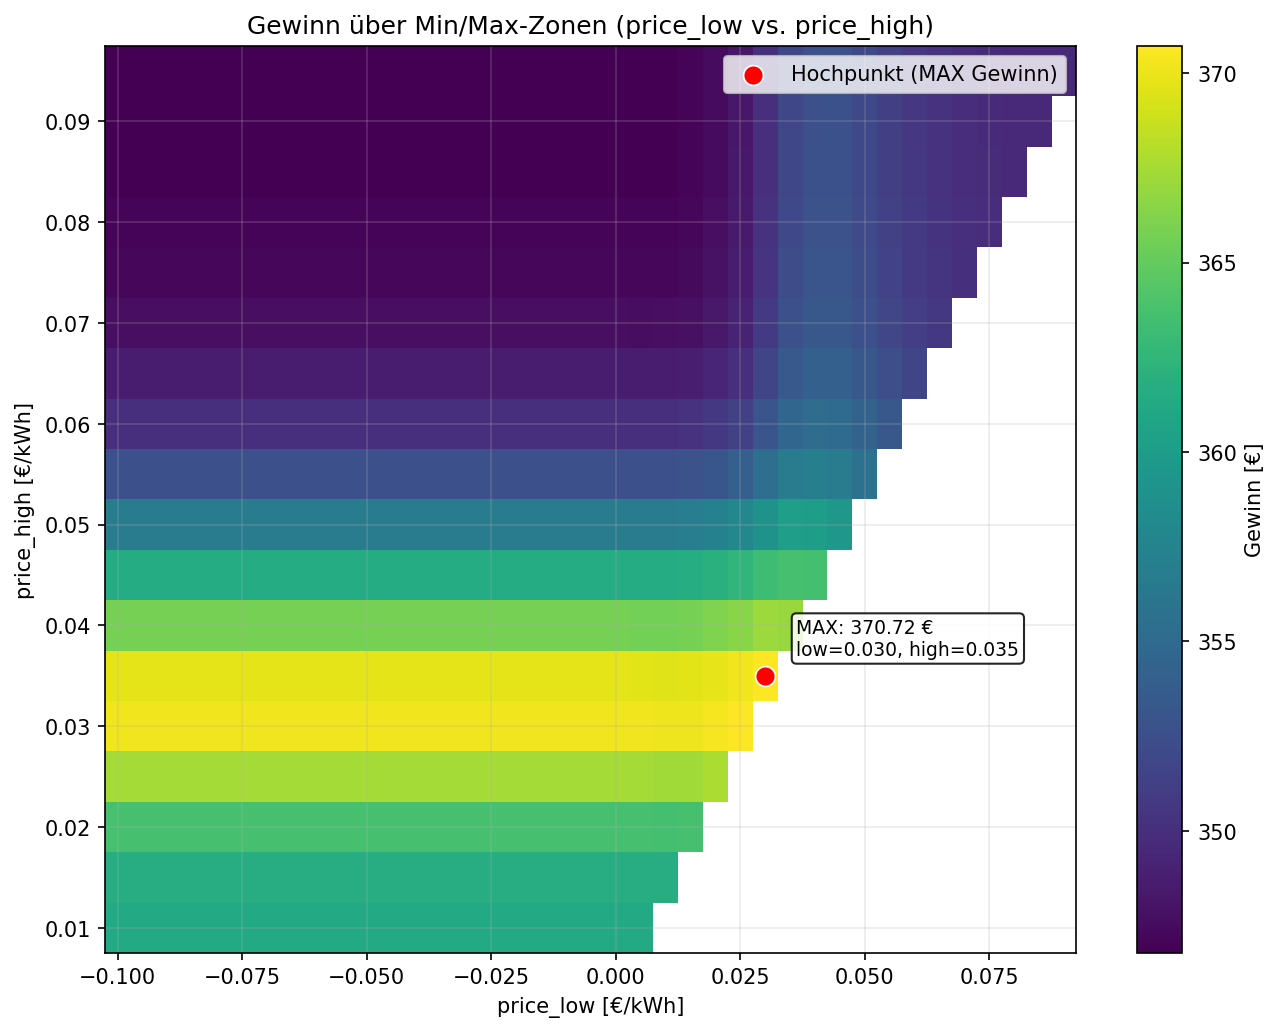
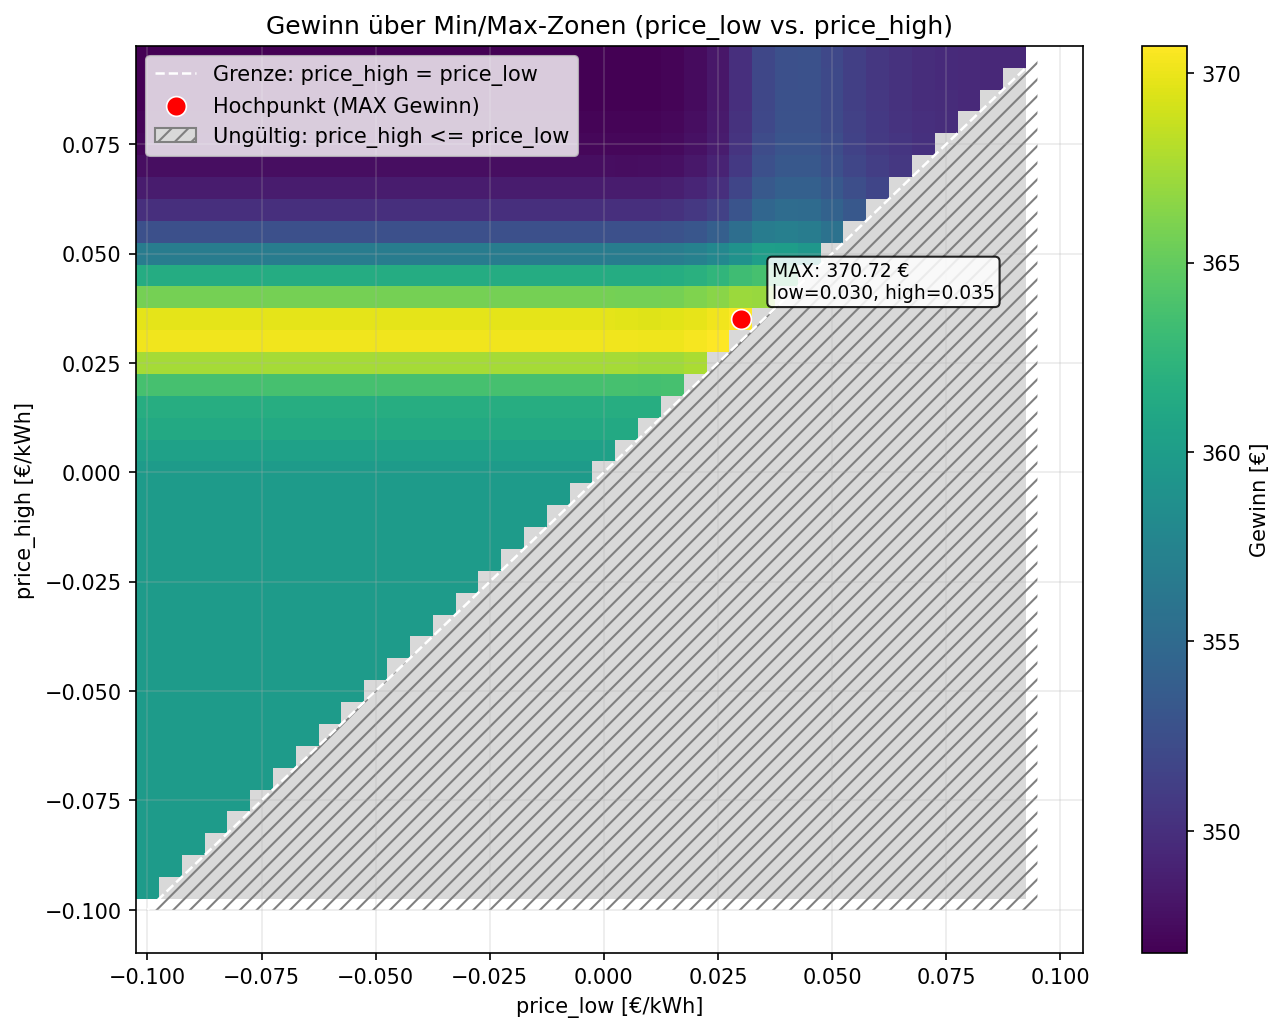
Datei geändert

diff --git a/Hackathon.py b/Hackathon.py
@@ -2,6 +2,7 @@ import numpy as np
 import pandas as pd
 import matplotlib.pyplot as plt
 import matplotlib.dates as mdates
+import matplotlib.patches as mpatches
 
 #Konstanten +++++++++++++++++++++++++++++++++++++++++++++++++++++++++
 delta_t = 300 #sekunden
@@ -340,7 +341,7 @@ def simulate(price_low, price_high, return_series=False):
 
 # Parametersuche
 price_low_values = np.arange(-0.1, 0.1, 0.005)
-price_high_values = np.arange(0.01, 0.1, 0.005)
+price_high_values = np.arange(-0.1, 0.1, 0.005)
 
 max_autarkie = -np.inf
 best_low_autarkie = None
@@ -355,6 +356,13 @@ results = []
 total_tests = sum(1 for pl in price_low_values for ph in price_high_values if ph > pl)
 processed_tests = 0
 
+def print_progress_bar(current, total, prefix="Fortschritt Parametersuche", length=30):
+    percent = (current / total) if total else 1.0
+    filled = int(length * percent)
+    bar = "█" * filled + "░" * (length - filled)
+    end_char = "\n" if current == total else "\r"
+    print(f"{prefix}: |{bar}| {current}/{total} ({percent * 100:5.1f}%)", end=end_char, flush=True)
+
 for price_low in price_low_values:
     for price_high in price_high_values:
         # Nur sinnvolle Kombinationen testen
@@ -366,13 +374,8 @@ for price_low in price_low_values:
         autarkie, gewinn, _ = simulate(price_low, price_high)
         results.append((price_low, price_high, autarkie, gewinn))
 
-        # Live-Fortschrittsanzeige waehrend der Parametersuche
-        if processed_tests == 1 or processed_tests % 1 == 0 or processed_tests == total_tests:
-            progress_pct = (processed_tests / total_tests) * 100
-            print(
-                f"Fortschritt Parametersuche: {processed_tests}/{total_tests} ({progress_pct:5.1f}%)",
-                flush=True,
-            )
+        # Live-Fortschrittsanzeige als einzeiliger Balken
+        print_progress_bar(processed_tests, total_tests)
 
         if autarkie > max_autarkie:
             max_autarkie = autarkie
@@ -435,15 +438,34 @@ zones_df = pd.DataFrame(results, columns=["price_low", "price_high", "autarkie",
 gewinn_grid = zones_df.pivot(index="price_high", columns="price_low", values="gewinn")
 
 fig_zone, ax_zone = plt.subplots(figsize=(9, 7))
+zone_cmap = plt.get_cmap("viridis").copy()
+zone_cmap.set_bad(color="#d9d9d9")
+masked_gewinn = np.ma.masked_invalid(gewinn_grid.to_numpy())
+
 mesh = ax_zone.pcolormesh(
     gewinn_grid.columns.to_numpy(),
     gewinn_grid.index.to_numpy(),
-    gewinn_grid.to_numpy(),
+    masked_gewinn,
     shading="auto",
-    cmap="viridis",
+    cmap=zone_cmap,
 )
 cbar = plt.colorbar(mesh, ax=ax_zone)
 cbar.set_label("Gewinn [€]")
+
+# Trennlinie zwischen gültigem (price_high > price_low) und ungültigem Bereich
+diag_x = np.array([price_low_values.min(), price_low_values.max()])
+ax_zone.plot(diag_x, diag_x, color="white", linestyle="--", linewidth=1.2, label="Grenze: price_high = price_low")
+
+# Ungültigen Bereich zusätzlich schraffieren (max <= min)
+ax_zone.fill_between(
+    diag_x,
+    price_low_values.min(),
+    diag_x,
+    color="none",
+    hatch="///",
+    edgecolor="#808080",
+    linewidth=0.0,
+)
 
 ax_zone.scatter(
     best_low_gewinn,
@@ -467,43 +489,20 @@ ax_zone.annotate(
 ax_zone.set_title("Gewinn über Min/Max-Zonen (price_low vs. price_high)")
 ax_zone.set_xlabel("price_low [€/kWh]")
 ax_zone.set_ylabel("price_high [€/kWh]")
-ax_zone.legend(loc="best")
+invalid_patch = mpatches.Patch(facecolor="#d9d9d9", edgecolor="#808080", hatch="///", label="Ungültig: price_high <= price_low")
+handles, labels = ax_zone.get_legend_handles_labels()
+handles.append(invalid_patch)
+labels.append("Ungültig: price_high <= price_low")
+ax_zone.legend(handles, labels, loc="best")
 ax_zone.grid(alpha=0.25)
 
-plt.tight_layout()
-plt.savefig("gewinn_minmax_zonen_hochpunkt.png", dpi=150, bbox_inches="tight")
-plt.show()
+fig_zone.tight_layout()
+fig_zone.savefig("gewinn_minmax_zonen_hochpunkt.png", dpi=150, bbox_inches="tight")
 
-# Grafische Ausgabe: kumulierter Gewinn über Zeit für den Sweet Spot
+# Daten für den Gesamtplot (inkl. kumulierter Gewinn)
 _, sweet_gewinn_check, _, sweet_cum_gewinn, sweet_details = simulate(
     sweet_low, sweet_high, return_series=True
 )
-
-fig, ax = plt.subplots(figsize=(12, 5))
-
-if timestamp_dt.notna().any():
-    x_values = timestamp_dt
-    ax.plot(x_values, sweet_cum_gewinn, color="tab:green", linewidth=1.5, label="Kumulierter Gewinn")
-    ax.xaxis.set_major_formatter(mdates.DateFormatter("%d.%m.%Y"))
-    fig.autofmt_xdate()
-    ax.set_xlabel("Zeit")
-else:
-    x_values = np.arange(n) * (delta_t / 3600)
-    ax.plot(x_values, sweet_cum_gewinn, color="tab:green", linewidth=1.5, label="Kumulierter Gewinn")
-    ax.set_xlabel("Zeit [h]")
-
-ax.axhline(0, color="black", linestyle="--", linewidth=0.8)
-ax.set_ylabel("Einnahmen / Gewinn [€]")
-ax.set_title(
-    "Einnahmen über Zeit (Sweet Spot)\n"
-    f"price_low={sweet_low:.3f}, price_high={sweet_high:.3f}, Gewinn Ende={sweet_gewinn_check:.2f} €"
-)
-ax.grid(alpha=0.3)
-ax.legend(loc="best")
-
-plt.tight_layout()
-plt.savefig("sweet_spot_einnahmen_zeit.png", dpi=150, bbox_inches="tight")
-plt.show()
 
 # Erweiterte Grafische Ausgabe: alle wichtigen Eigenschaften für den Sweet Spot
 fig_all, axes = plt.subplots(6, 1, figsize=(14, 18), sharex=True)
@@ -586,6 +585,8 @@ fig_all.suptitle(
     fontsize=12,
 )
 
-plt.tight_layout()
-plt.savefig("sweet_spot_alle_eigenschaften.png", dpi=150, bbox_inches="tight")
+fig_all.tight_layout(rect=[0, 0, 1, 0.97])
+fig_all.savefig("sweet_spot_alle_eigenschaften.png", dpi=150, bbox_inches="tight")
+
+# Nur ein show-Aufruf: beide Figuren erscheinen gleichzeitig.
 plt.show()
